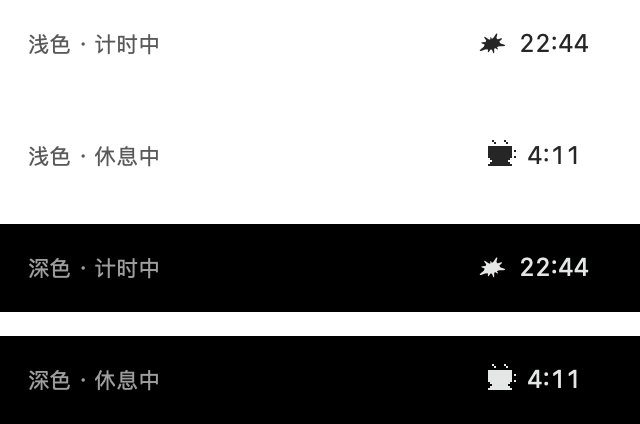
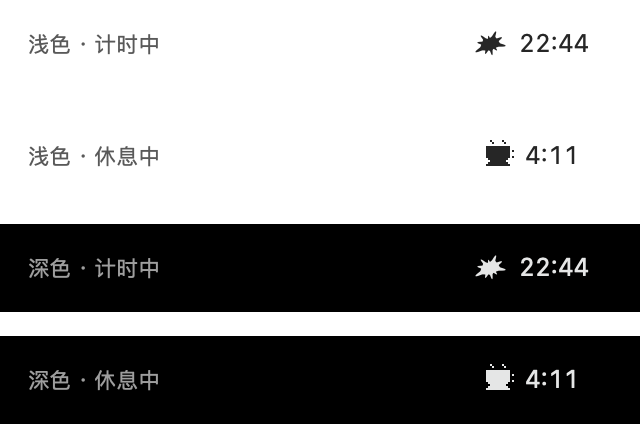
计时图标放大到 18pt

diff --git a/Sources/StatusGlyph.swift b/Sources/StatusGlyph.swift
@@ -7,8 +7,8 @@ enum StatusGlyph {
     static let timer: NSImage = make { _ in
         NSColor.black.setFill()
 
-        let center = NSPoint(x: 8, y: 8)
-        let maxRadius: CGFloat = 7.0
+        let center = NSPoint(x: 9, y: 9)
+        let maxRadius: CGFloat = 8.3
 
         let spikes = 10.0
         let seed = 1.2
@@ -40,7 +40,7 @@ enum StatusGlyph {
     }
 
     private static func make(_ draw: @escaping (NSRect) -> Void) -> NSImage {
-        let image = NSImage(size: NSSize(width: 16, height: 16), flipped: false) { rect in
+        let image = NSImage(size: NSSize(width: 18, height: 18), flipped: false) { rect in
             draw(rect)
             return true
         }
